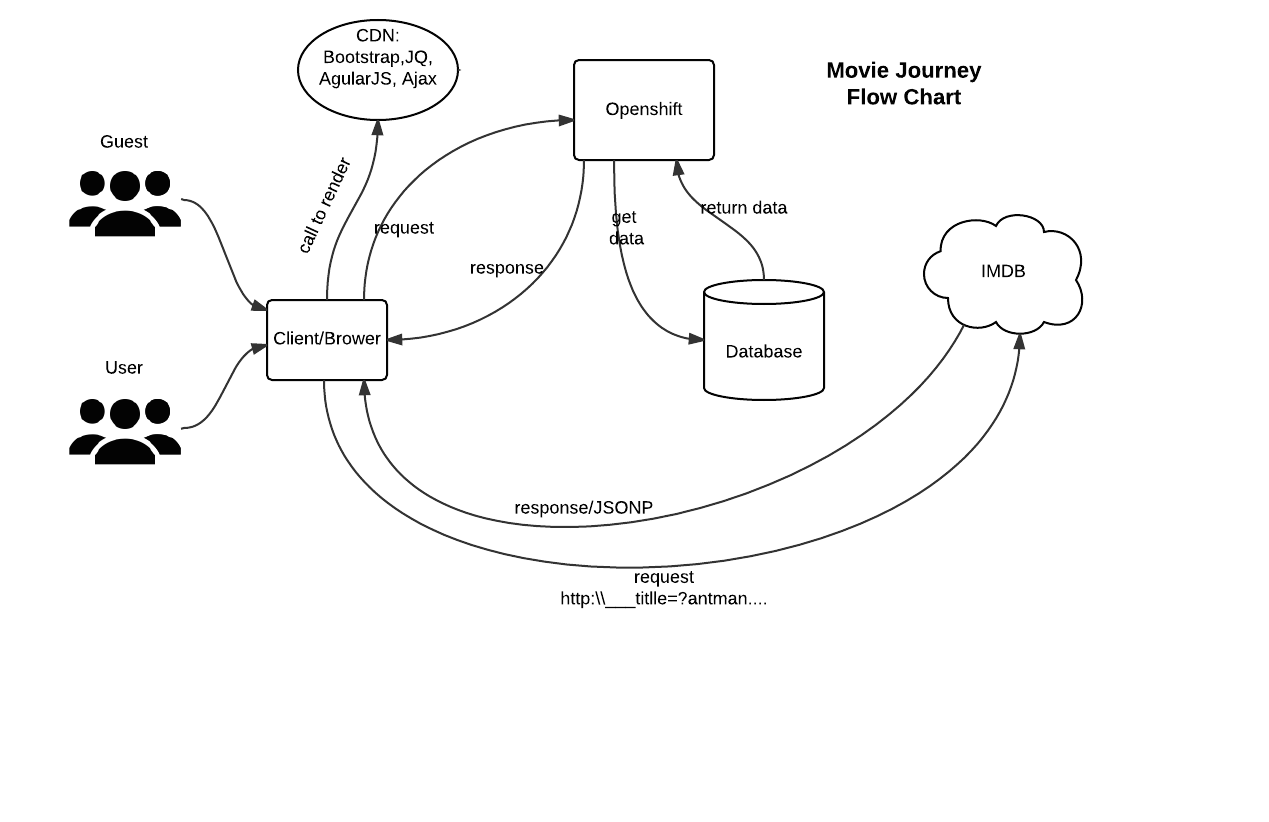
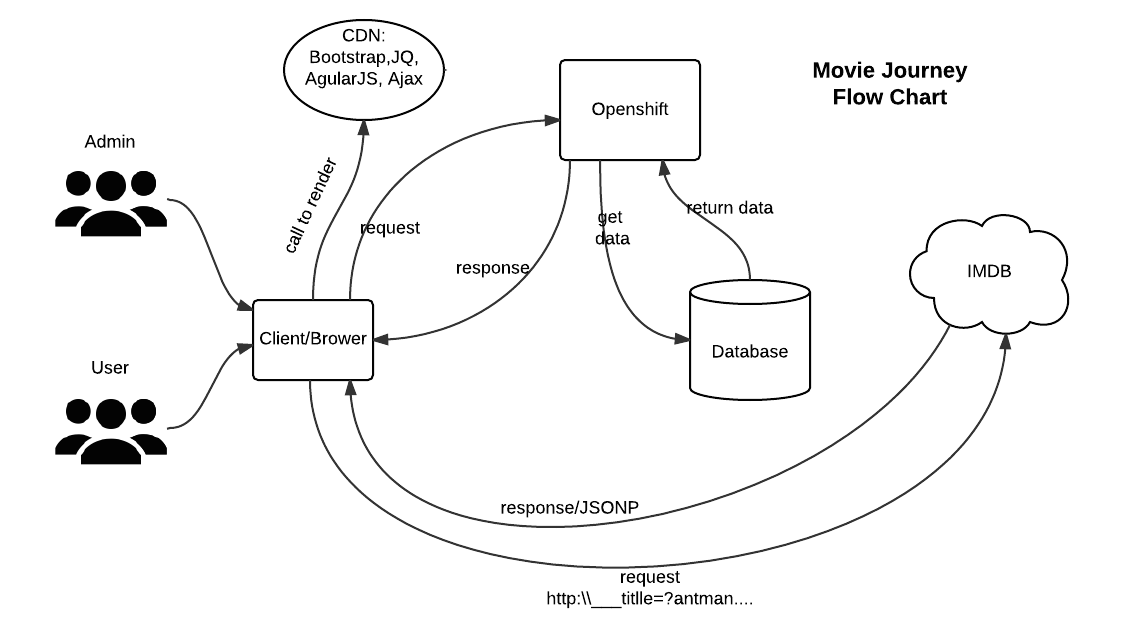
Add the functionality of admin.

diff --git a/public/project/client/img/document.html b/public/project/client/img/document.html
@@ -20,11 +20,19 @@
         <p>&nbsp;&nbsp;&nbsp;&nbsp;&nbsp;&nbsp;8.	Check my friend list to see who he/she is following and who he/she is followed.</p>
         <p>&nbsp;&nbsp;&nbsp;&nbsp;&nbsp;&nbsp;9.	Logout.</p>
         <br/>
-        <p>Guest:</p>
-        <p>&nbsp;&nbsp;&nbsp;&nbsp;&nbsp;&nbsp;1.	Browse the website.</p>
-        <p>&nbsp;&nbsp;&nbsp;&nbsp;&nbsp;&nbsp;2.	Search movies to see which movies are more popolar.</p>
-        <p>&nbsp;&nbsp;&nbsp;&nbsp;&nbsp;&nbsp;3.	Search actors/actresses to know more information about your favorite actors/actresses</p>
-        <p>&nbsp;&nbsp;&nbsp;&nbsp;&nbsp;&nbsp;4.	Browse the comments below movies to see what people think of this movie.</p>
+        <p>Admin:</p>
+        <p>User cannot create an admin, there is only one admin. The Admin can have an additional functionality to delete comments of users.</p>
+        <p>Admin Username: admin</p>
+        <p>Admin Password: admin</p>
+        <p>When you enter the userword and password of admin, now you are an admin and can delete comments of users.</p>
+        <p>&nbsp;&nbsp;&nbsp;&nbsp;&nbsp;&nbsp;1.	Delete comments of user.</p>
+        <p>&nbsp;&nbsp;&nbsp;&nbsp;&nbsp;&nbsp;2.	Search movies , add movies to watch list  and delete movies from watch list.</p>
+        <p>&nbsp;&nbsp;&nbsp;&nbsp;&nbsp;&nbsp;3.	Add movie to order, delete movies from order.</p>
+        <p>&nbsp;&nbsp;&nbsp;&nbsp;&nbsp;&nbsp;4.	Pay for the movies in his/her order.</p>
+        <p>&nbsp;&nbsp;&nbsp;&nbsp;&nbsp;&nbsp;5.	Make comments.</p>
+        <p>&nbsp;&nbsp;&nbsp;&nbsp;&nbsp;&nbsp;6.	Add friends</p>
+        <p>&nbsp;&nbsp;&nbsp;&nbsp;&nbsp;&nbsp;7.	Check my friend list to see who he/she is following and who he/she is followed.</p>
+        <p>&nbsp;&nbsp;&nbsp;&nbsp;&nbsp;&nbsp;8.	Logout.</p>
         <br/>
         <p style="text-align: center; font-size: 120%"><b><strong>User Case Analysis</strong></b></p>
         <p>1. User creates an account</p>
